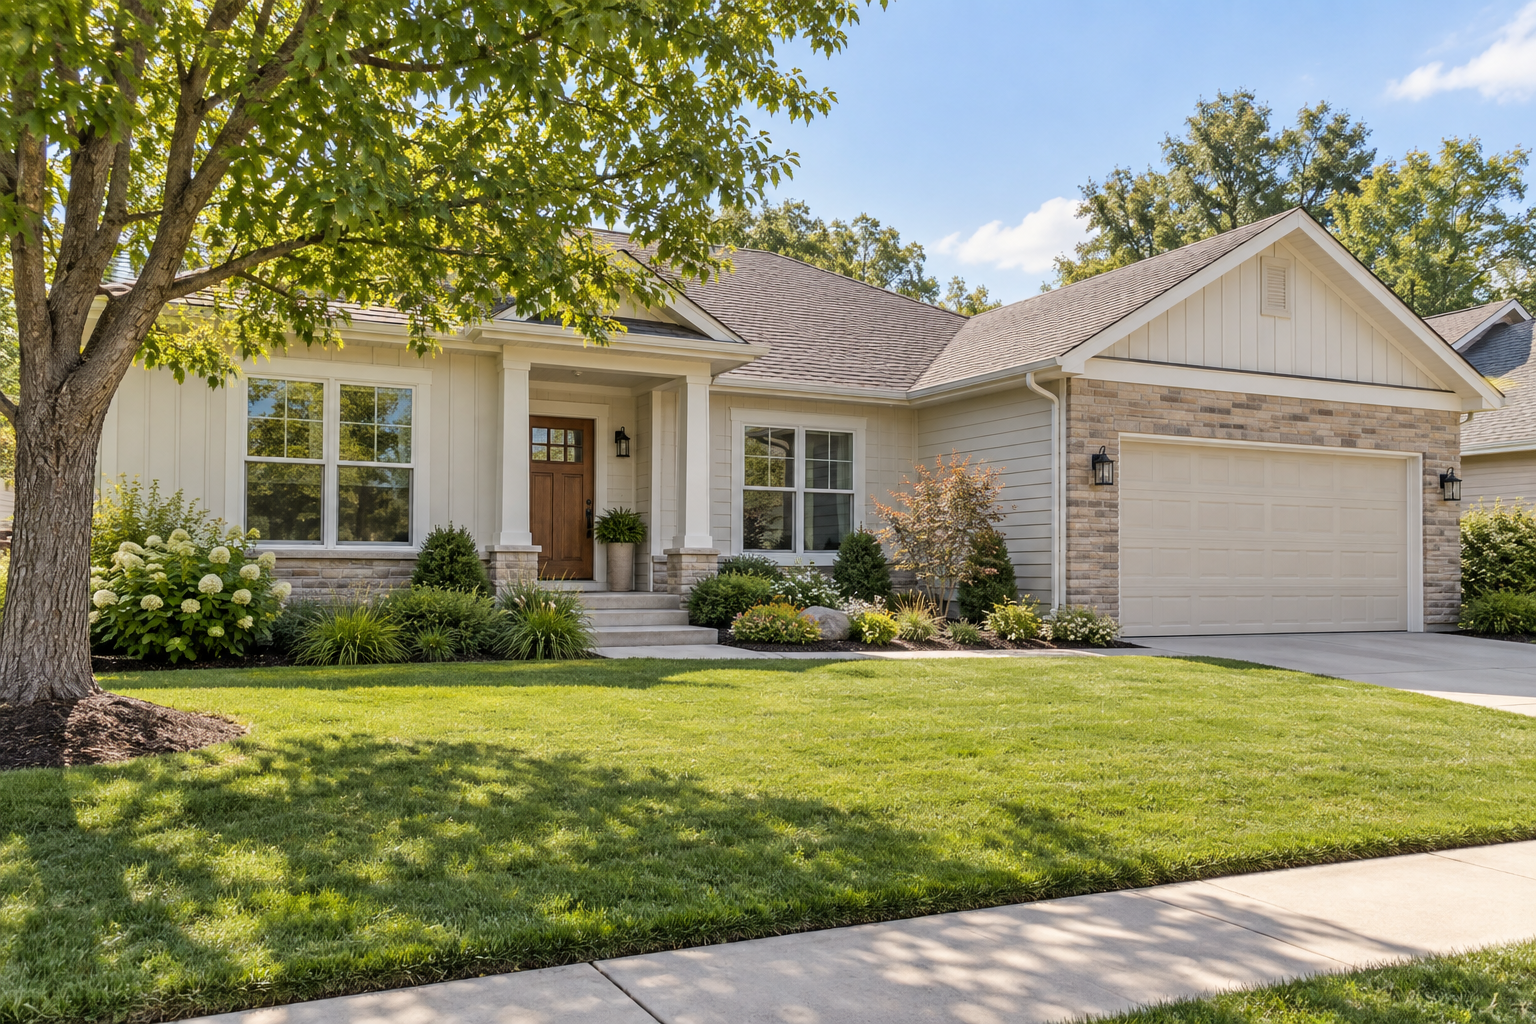
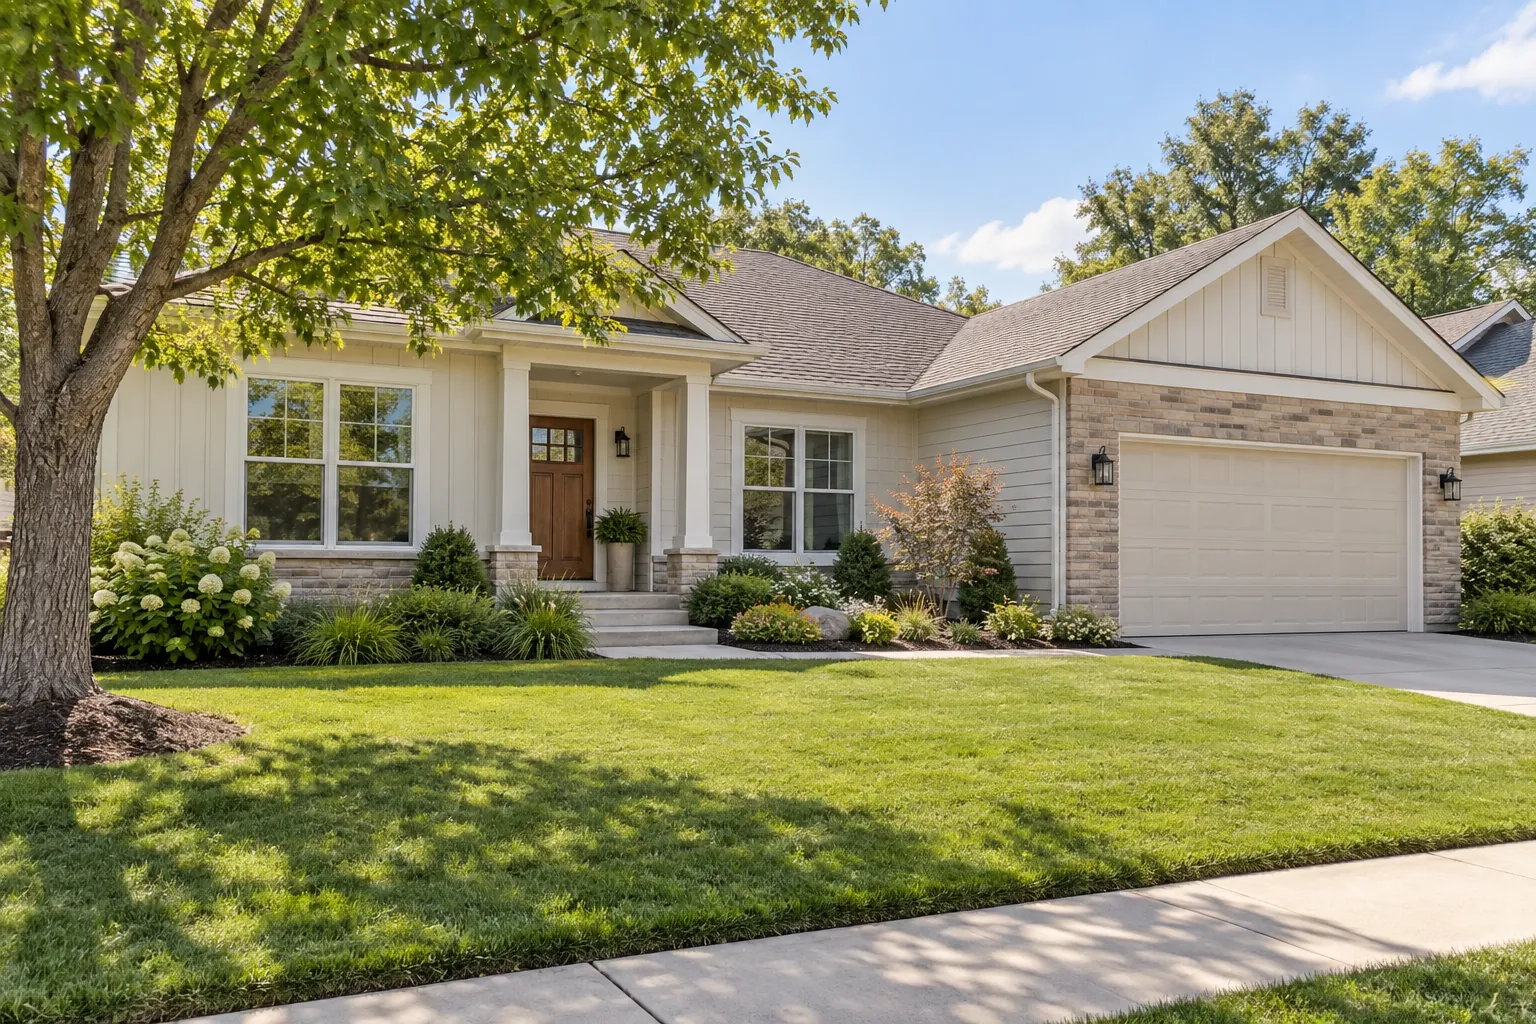
Rebuild supplement path module and compress project images
- Supplement panel: concept illustration (desktop 3:2 crop, mobile full view)
  with two image labels, merged system notes and single collection CTA
- Single visible H2 via shared shop-title; duplicate panel heading removed
- Mobile stacking fix: reset implicit grid column from the desktop layout
- Compress project entry images 2.36MB->359KB and 1.66MB->211KB (q80/q85)

diff --git a/Ductless Mini Split vs Central Air/ductless-mini-split-vs-central-air.html b/Ductless Mini Split vs Central Air/ductless-mini-split-vs-central-air.html
@@ -27,12 +27,12 @@
 .dsc-gateway{background:#f2f7fd}.dsc-path-grid{display:grid;grid-template-columns:repeat(3,minmax(0,1fr));gap:22px;margin-top:30px}.dsc-path{display:flex;flex-direction:column;min-width:0;padding:0;border:1px solid var(--line);border-radius:5px;overflow:hidden;background:#fff;color:var(--navy);text-align:left;cursor:pointer;transition:border-color .18s,box-shadow .18s}.dsc-path:hover{border-color:#839ed8}.dsc-path[aria-pressed=true]{border-color:var(--blue);box-shadow:0 0 0 1px var(--blue)}.dsc-path__image{width:100%;aspect-ratio:3/2;object-fit:cover;object-position:center}.dsc-path:nth-child(2) .dsc-path__image,.dsc-path:nth-child(3) .dsc-path__image{object-position:top}.dsc-path__body{display:flex;flex:1;flex-direction:column;padding:21px 23px 24px}.dsc-path__eyebrow{font-size:11px;line-height:1.5;color:#3560b7;font-weight:600;text-transform:uppercase;letter-spacing:.06em}.dsc-path__title{display:block;margin:7px 0 0;font:500 23px/1.2 Spectral,Georgia,serif}.dsc-path__condition{display:block;margin:12px 0 20px;color:var(--muted);font-size:14px;line-height:1.55}.dsc-path__action{display:block;margin-top:auto;color:#315bac;font-size:13px;font-weight:600;text-decoration:underline;text-underline-offset:4px}.dsc-unsure{margin:22px 0 0;font-size:13px;text-align:right;color:var(--muted)}.dsc-unsure a{color:#315bac;text-underline-offset:4px}
 .dsc-shop{background:#fff;border-bottom:1px solid var(--line)}.dsc-shop__top{display:flex;justify-content:space-between;align-items:start;gap:40px;margin-bottom:28px}.dsc-shop__intro{min-width:0}.dsc-shop__intro p{margin:10px 0 0;color:var(--muted)}.dsc-change{flex:none;min-height:44px;padding:9px 0;border:0;background:none;color:#315bac;text-decoration:underline;text-underline-offset:5px;font-size:13px;cursor:pointer}.dsc-panel{margin-top:8px}.js .dsc-panel{display:none}.js .dsc-panel.is-active{display:block}.js .dsc-panel>.dsc-heading,.js .dsc-panel>.dsc-subheading{display:none}.no-js .dsc-panel+.dsc-panel{margin-top:50px}
 .dsc-products{display:grid;grid-template-columns:repeat(4,minmax(0,1fr));gap:18px}.dsc-product{--card-inset:18px;display:flex;min-width:0;flex-direction:column;border:1px solid var(--line);border-radius:4px;background:#fff}.dsc-product__role{margin:16px var(--card-inset) 0;color:#4269b6;font-size:11px;font-weight:600;text-transform:uppercase;line-height:1.5}.dsc-product__media{height:226px;display:grid;place-items:center;padding:24px 20px 12px}.dsc-product__media img{width:100%;height:100%;max-height:190px;object-fit:contain}.dsc-product__title{margin:10px var(--card-inset) 0;font:500 23px/1.2 Spectral,Georgia,serif}.dsc-product__subtitle{margin:6px var(--card-inset) 0;color:var(--muted);font-size:13px;line-height:1.5}.dsc-product__specs{margin:18px var(--card-inset) 0;border-top:1px solid var(--line)}.dsc-product__specs div{display:flex;justify-content:space-between;align-items:baseline;gap:12px;padding:8px 0;border-bottom:1px solid var(--line);font-size:12px;line-height:1.5}.dsc-product__specs dt{color:var(--muted)}.dsc-product__specs dd{margin:0;text-align:right}.dsc-product__identity{margin:8px var(--card-inset) 0;font-size:12px;color:var(--muted);line-height:1.5}.dsc-product__identity summary{min-height:44px;padding:12px 0;cursor:pointer;text-decoration:underline;text-underline-offset:3px}.dsc-product__identity p{margin:0 0 12px;overflow-wrap:anywhere}.dsc-product__purchase{margin:auto var(--card-inset) 18px;padding-top:16px}.dsc-product__price{margin:0;font:700 25px/1.2 Spectral,Georgia,serif}.dsc-product__configuration{margin:8px 0 0;font-size:11px;line-height:1.5;color:var(--muted)}.dsc-product__configuration:empty{display:none}.dsc-product__purchase .dsc-btn{width:100%;padding-inline:8px;margin-top:16px}.dsc-product__status{margin:0 0 12px;font-size:13px;color:var(--muted)}.dsc-final__install{font-size:13px;text-underline-offset:4px}
-.dsc-supplement{display:grid;grid-template-columns:1.1fr .9fr;gap:20px 50px;align-items:center}.dsc-supplement__lead{font-size:18px;line-height:1.7;margin:0}.dsc-supplement__confirm{font-size:13px;color:var(--muted);margin:12px 0 0}.dsc-supplement__visual{display:grid;place-items:center;padding:20px}.dsc-supplement__visual img{width:100%;max-height:280px;object-fit:contain}.dsc-supplement__actions{display:flex;flex-wrap:wrap;align-items:center;gap:18px;margin-top:24px}.dsc-supplement__spaces{grid-column:1/-1;display:grid;grid-template-columns:repeat(3,minmax(0,1fr));border-top:1px solid var(--line);padding-top:24px;margin-top:12px}.dsc-space{padding:0 24px}.dsc-space:first-child{padding-left:0}.dsc-space+.dsc-space{border-left:1px solid var(--line)}.dsc-space strong{display:block;font-size:14px}.dsc-space p{margin:7px 0 0;font-size:13px;color:var(--muted)}
+.dsc-supplement{display:grid;grid-template-columns:1.35fr 1fr;column-gap:44px;align-items:center}.dsc-supplement__media{grid-column:1;grid-row:1;margin:0;position:relative}.dsc-supplement__img{width:100%;height:auto;border-radius:6px}.dsc-supplement__tags{display:contents}.dsc-supplement__tag{position:absolute;transform:translateX(-50%);background:#fff;color:var(--navy);font-size:12px;font-weight:600;line-height:1.3;padding:6px 12px;border-radius:999px;border:1px solid rgba(14,25,83,.12);box-shadow:0 2px 8px rgba(14,25,83,.2);white-space:nowrap}.dsc-supplement__tag::before{content:"";position:absolute;left:50%;top:100%;width:2px;height:var(--line,16px);background:#5884e7;transform:translateX(-50%)}.dsc-supplement__tag::after{content:"";position:absolute;left:50%;top:calc(100% + var(--line,16px));width:8px;height:8px;border-radius:50%;background:#5884e7;box-shadow:0 0 0 2px #fff;transform:translate(-50%,-50%)}.dsc-supplement__caption{margin:8px 0 0;font-size:12px;line-height:1.5;color:var(--muted)}.dsc-supplement__copy{grid-column:2;grid-row:1}.dsc-supplement__lead{margin:0 0 18px;font-size:16px;line-height:1.7;color:#233357}.dsc-supplement__notes{display:grid;gap:14px;margin:0 0 24px}.dsc-supplement__note strong{display:block;font-size:14px;font-weight:600;color:var(--navy)}.dsc-supplement__note p{margin:3px 0 0;font-size:14px;line-height:1.55;color:var(--muted)}.dsc-supplement__actions{display:flex}
 .dsc-verify{background:#f8fafc}.dsc-table-wrap{margin-top:30px;overflow:auto}.dsc-table{width:100%;border-collapse:collapse;table-layout:fixed;font-size:14px;line-height:1.6}.dsc-table th,.dsc-table td{padding:18px 22px;text-align:left;vertical-align:top;border-bottom:1px solid var(--line)}.dsc-table th{font-weight:600;background:#edf3fa}.dsc-table th:first-child{width:23%}.dsc-table td:first-child{font-weight:600}.dsc-table th img{width:auto;height:50px!important;object-fit:contain;margin-top:14px}.dsc-table th img.dsc-thumb--wide{max-width:130px}
 .dsc-services{padding:56px 0;background:#fff}.dsc-svc-grid{display:grid;grid-template-columns:repeat(4,minmax(0,1fr));gap:26px;margin-top:32px}.dsc-svc{display:flex;flex-direction:column;align-items:center;padding:30px 26px 28px;border-radius:6px;background:var(--light);text-align:center}.dsc-svc__icon{display:flex;width:58px;height:58px;flex:none;align-items:center;justify-content:center;margin-bottom:14px;border-radius:50%;background:var(--blue)}.dsc-svc__icon img{display:block;width:50px;height:50px}.dsc-svc h3{margin:0 0 8px;font:500 22px/1.35 Spectral,Georgia,serif}.dsc-svc h3 a{color:inherit;text-decoration:none;border-bottom:1px solid transparent;transition:border-color .18s}.dsc-svc h3 a:hover{border-bottom-color:currentColor}.dsc-svc p{margin:0;color:var(--muted);font-size:15px;line-height:1.6}
 .dsc-faq{background:#f8fafc}.dsc-faq__list{margin-top:26px;border-top:1px solid var(--line)}.dsc-faq details{border-bottom:1px solid var(--line)}.dsc-faq summary{padding:20px 0;font:500 21px/1.4 Spectral,Georgia,serif;cursor:pointer}.dsc-faq details[open] summary{color:#315bac}.dsc-faq__answer{max-width:950px;padding:0 28px 22px 0;color:var(--muted);font-size:15px}.dsc-faq__answer p{margin:0}.dsc-final{padding:56px 0}.dsc-final__box{display:grid;grid-template-columns:1fr auto;gap:36px;padding:36px 40px;background:#edf4fc;align-items:center}.dsc-final h2{font:500 34px/1.18 Spectral,Georgia,serif;margin:0}.dsc-final p{margin:12px 0 0;max-width:650px;color:var(--muted);font-size:15px}.dsc-final__actions{display:grid;gap:14px;text-align:center}
-@media(max-width:1199px){.dsc-hero h1{font-size:49px}.dsc-hero__inner{min-height:530px}.dsc-products{grid-template-columns:repeat(2,minmax(0,1fr))}.dsc-product__media{height:240px}.dsc-svc-grid{gap:18px}.dsc-path__body{padding:18px}.dsc-path__title{font-size:21px}}
-@media(max-width:820px){.dsc-container{width:calc(100% - 40px)}.dsc-section{padding:48px 0}.dsc-section--compact{padding:40px 0}.dsc-hero__inner{display:block;padding-top:270px;min-height:0}.dsc-hero__background{height:280px!important;object-position:75% 25%}.dsc-hero__copy{padding:28px 0 32px}.dsc-hero h1{font-size:43px;max-width:600px}.dsc-hero__lead{font-size:16px;max-width:600px;margin-top:18px}.dsc-heading{font-size:31px}.dsc-path-grid{grid-template-columns:1fr;gap:14px;margin-top:24px}.dsc-path__image{object-position:center 30%}.dsc-path__body{padding:16px 18px}.dsc-path__title{font-size:22px}.dsc-path__condition{font-size:13px;margin:8px 0 12px}.dsc-path__action{font-size:12px}.dsc-unsure{text-align:left;font-size:13px}.dsc-shop__top{flex-direction:column;gap:6px}.dsc-change{order:2}.dsc-shop__intro{width:100%}.dsc-supplement{grid-template-columns:1fr}.dsc-supplement__visual{grid-row:2;padding:10px}.dsc-supplement__spaces{grid-template-columns:1fr;gap:0}.dsc-space,.dsc-space:first-child{padding:16px 0}.dsc-space+.dsc-space{border-left:0;border-top:1px solid var(--line)}.dsc-svc-grid{grid-template-columns:repeat(2,minmax(0,1fr));gap:16px}.dsc-svc{padding:26px 20px}.dsc-final__box{grid-template-columns:1fr;padding:28px}.dsc-table{font-size:13px;table-layout:auto}.dsc-table th,.dsc-table td{padding:14px 10px}.dsc-table th:first-child{width:25%}}
+@media(max-width:1199px){.dsc-hero h1{font-size:49px}.dsc-hero__inner{min-height:530px}.dsc-products{grid-template-columns:repeat(2,minmax(0,1fr))}.dsc-product__media{height:240px}.dsc-svc-grid{gap:18px}.dsc-path__body{padding:18px}.dsc-path__title{font-size:21px}.dsc-supplement{column-gap:32px}}
+@media(max-width:820px){.dsc-container{width:calc(100% - 40px)}.dsc-section{padding:48px 0}.dsc-section--compact{padding:40px 0}.dsc-hero__inner{display:block;padding-top:270px;min-height:0}.dsc-hero__background{height:280px!important;object-position:75% 25%}.dsc-hero__copy{padding:28px 0 32px}.dsc-hero h1{font-size:43px;max-width:600px}.dsc-hero__lead{font-size:16px;max-width:600px;margin-top:18px}.dsc-heading{font-size:31px}.dsc-path-grid{grid-template-columns:1fr;gap:14px;margin-top:24px}.dsc-path__image{object-position:center 30%}.dsc-path__body{padding:16px 18px}.dsc-path__title{font-size:22px}.dsc-path__condition{font-size:13px;margin:8px 0 12px}.dsc-path__action{font-size:12px}.dsc-unsure{text-align:left;font-size:13px}.dsc-shop__top{flex-direction:column;gap:6px}.dsc-change{order:2}.dsc-shop__intro{width:100%}.dsc-supplement{grid-template-columns:1fr;align-items:start}.dsc-supplement__media,.dsc-supplement__copy{grid-column:1;grid-row:auto}.dsc-supplement__media{margin:0 0 16px}.dsc-supplement__lead{margin:0 0 16px}.dsc-supplement__notes{margin:0 0 22px}.dsc-supplement__tags{display:none}.dsc-svc-grid{grid-template-columns:repeat(2,minmax(0,1fr));gap:16px}.dsc-svc{padding:26px 20px}.dsc-final__box{grid-template-columns:1fr;padding:28px}.dsc-table{font-size:13px;table-layout:auto}.dsc-table th,.dsc-table td{padding:14px 10px}.dsc-table th:first-child{width:25%}}
 @media(max-width:560px){.dsc-container{width:calc(100% - 32px)}.dsc-heading{font-size:29px}.dsc-hero h1{font-size:38px}.dsc-hero__inner{padding-top:250px}.dsc-hero__background{height:260px!important;object-position:78% top}.dsc-path__body{padding:15px}.dsc-path__title{font-size:21px}.dsc-products{grid-template-columns:1fr;gap:20px}.dsc-product{--card-inset:0px;display:grid;grid-template-columns:112px minmax(0,1fr);column-gap:16px;padding:16px}.dsc-product__role{grid-column:1/-1;margin:0 0 14px}.dsc-product__media{grid-column:1;grid-row:2 / 4;height:112px;margin:0;padding:5px;align-self:center}.dsc-product__title{grid-column:2;grid-row:2;align-self:end;margin:0;font-size:24px}.dsc-product__subtitle{grid-column:2;grid-row:3;margin:7px 0 0;font-size:13px}.dsc-product__specs,.dsc-product__identity,.dsc-product__purchase{grid-column:1/-1;margin-inline:0}.dsc-product__purchase{margin-bottom:0}.dsc-product__configuration{min-height:0;font-size:12px}.dsc-product__specs div,.dsc-product__identity{font-size:13px}.dsc-product__media img{max-height:100%}.dsc-table thead{position:absolute;clip-path:inset(50%);height:1px;width:1px;overflow:hidden}.dsc-table,.dsc-table tbody{display:block}.dsc-table tr{display:grid;grid-template-columns:1fr 1fr;border-top:1px solid var(--line);padding:16px 0;gap:10px 18px}.dsc-table td{display:block;border:0;padding:0}.dsc-table td:first-child{grid-column:1/-1;color:var(--navy);padding-bottom:2px}.dsc-table td[data-label]:before{content:attr(data-label);display:block;color:#315bac;font-size:11px;font-weight:600;line-height:1.4;margin-bottom:7px}.dsc-supplement__actions{flex-direction:column;align-items:stretch}.dsc-final h2{font-size:29px}.dsc-final__box{padding:25px}.dsc-services{padding:40px 0}.dsc-svc-grid{grid-template-columns:1fr;gap:14px}.dsc-svc{padding:24px 20px}.dsc-svc h3{font-size:20px}.dsc-svc p{font-size:14px}.dsc-faq summary{font-size:19px}.dsc-faq__answer{font-size:14px;padding-right:0}}
 @media(prefers-reduced-motion:reduce){.della-system-compare *{scroll-behavior:auto!important;transition:none!important;animation:none!important}}
 
@@ -127,7 +127,27 @@
       </div>
 
       <div class="dsc-panel" id="panel-supplement" data-panel="supplement" aria-labelledby="shop-title">
-        <div class="dsc-supplement"><div class="dsc-supplement__main"><div class="dsc-supplement__head"><p class="dsc-supplement__lead">The one that never quite keeps up. If the central system otherwise does its job, a separate wall-mounted mini split can cover just that space and leave the rest of the house alone.</p><p class="dsc-supplement__confirm">It runs as a separate ductless system. Confirm sizing, placement, electrical requirements, and installation before purchase.</p></div><div class="dsc-supplement__actions"><a class="dsc-btn dsc-btn--primary" href="https://dellahome.com/collections/wall-mounted-mini-split" data-analytics-event="della_collection_click">Shop Wall-Mounted Mini Splits</a></div></div><div class="dsc-supplement__visual"><img src="assets/products/cut-serena-12k.webp" alt="DELLA wall-mounted mini split" width="1581" height="1507" loading="lazy"></div><div class="dsc-supplement__spaces"><div class="dsc-space"><strong>The garage or workshop</strong><span>It never got ducts, and extending them is often a project of its own.</span></div><div class="dsc-space"><strong>The addition or converted space</strong><span>New square footage the original system was not sized for.</span></div><div class="dsc-space"><strong>That one room</strong><span>The rest of the house is fine. This one is not.</span></div></div></div>
+        <div class="dsc-supplement">
+          <figure class="dsc-supplement__media">
+            <picture>
+              <source media="(max-width:820px)" srcset="assets/completion/supplement-house-mobile.webp">
+              <img class="dsc-supplement__img" src="assets/completion/supplement-house-desktop.webp" alt="Cutaway concept home: on the left, the existing central system supply grille in the main living area; on the right, a wall-mounted mini split and its outdoor unit serving the garage" width="1374" height="924" loading="lazy">
+            </picture>
+            <div class="dsc-supplement__tags">
+              <span class="dsc-supplement__tag" style="left:30%;top:26%;--line:9px">Existing central system</span>
+              <span class="dsc-supplement__tag" style="left:75%;top:36%;--line:9px">Separate mini-split system</span>
+            </div>
+            <figcaption class="dsc-supplement__caption">Concept illustration.</figcaption>
+          </figure>
+          <div class="dsc-supplement__copy">
+            <p class="dsc-supplement__lead">If your central system serves the rest of your home well, a separate mini split can heat and cool a garage, addition, or other specific space.</p>
+            <div class="dsc-supplement__notes">
+              <div class="dsc-supplement__note"><strong>Existing central system</strong><p>Continues serving the main living areas.</p></div>
+              <div class="dsc-supplement__note"><strong>Separate mini-split system</strong><p>Dedicated indoor and outdoor units for the added space.</p></div>
+            </div>
+            <div class="dsc-supplement__actions"><a class="dsc-btn dsc-btn--primary" href="https://dellahome.com/collections/wall-mounted-mini-split" data-analytics-event="della_collection_click">Shop Wall-Mounted Mini Splits</a></div>
+          </div>
+        </div>
       </div>
     </div>
   </section>
@@ -172,7 +192,7 @@
  const content={
   ductless:{shop:'Wall-Mounted Mini Split Starting Options',desc:'Compare the number and size of spaces you want to condition.',final:'Ready to Build Your Ductless Setup?',copy:'Explore DELLA wall-mounted mini splits or confirm your installation plan with a partner HVAC professional.',label:'Shop Wall-Mounted Mini Splits',href:'https://dellahome.com/collections/wall-mounted-mini-split'},
   central:{shop:'Central Air Starting Options',desc:'Compare capacity tiers, then confirm the configuration and sizing for your home.',final:'Ready to Explore Central Air?',copy:'Review DELLA central air systems, then confirm sizing, duct condition, and installation requirements.',label:'Shop Central Air',href:'https://dellahome.com/collections/central-air-conditioner'},
-  supplement:{shop:'You Know the Room.',desc:'',final:'Ready to Target the Problem Area?',copy:'Explore wall-mounted mini splits or confirm the supplemental project with a partner HVAC installer.',label:'Shop Wall-Mounted Mini Splits',href:'https://dellahome.com/collections/wall-mounted-mini-split'}
+  supplement:{shop:'Keep your central air. Add comfort to one room.',desc:'',final:'Ready to Target the Problem Area?',copy:'Explore wall-mounted mini splits or confirm the supplemental project with a partner HVAC installer.',label:'Shop Wall-Mounted Mini Splits',href:'https://dellahome.com/collections/wall-mounted-mini-split'}
  };
  function emit(name,data={}){root.dispatchEvent(new CustomEvent('della:analytics',{bubbles:true,detail:{event:name,...data}}));if(typeof window.gtag==='function')window.gtag('event',name,data);}
  function updateUrl(path){const url=new URL(location.href);if(path)url.searchParams.set('path',path);else url.searchParams.delete('path');history.replaceState(null,'',url);}
